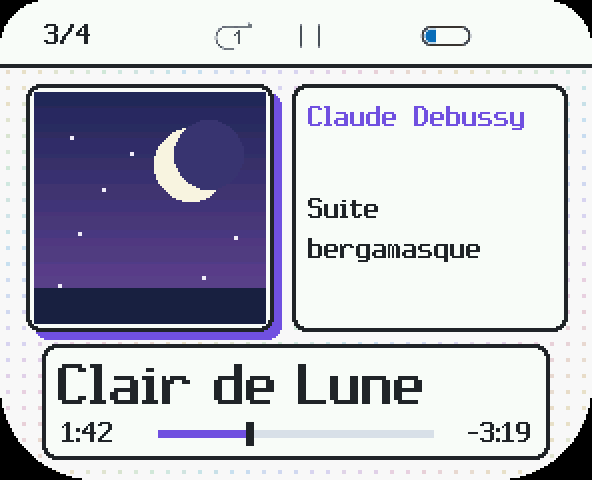
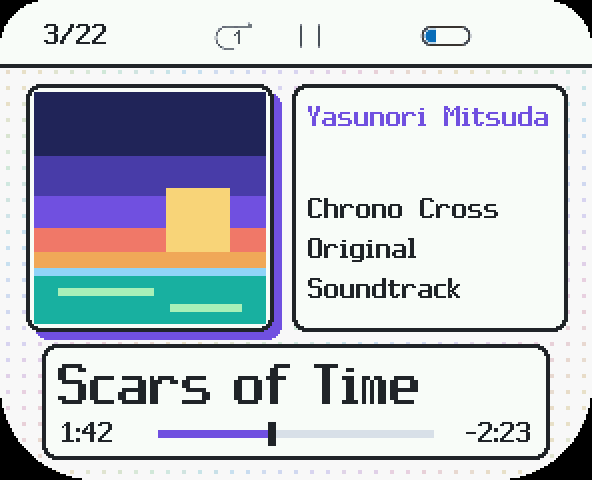
Setup guide (install and SD card layout), README links it; Now Playing screenshot with the Scars of Time sample

diff --git a/art/readme_shots.py b/art/readme_shots.py
@@ -5,8 +5,8 @@
 
 Writes docs/screenshots/{menu,now_playing,playlists,blockz}.png at 2x with the screen's rounded corners.
   menu         the Music card exactly as packed in the firmware (art/pocket.py; stock adds its status icons)
-  now_playing  game/device/npui.c run on the PC (art/np_preview.py) with a public-domain sample and an original
-               placeholder cover
+  now_playing  game/device/npui.c run on the PC (art/np_preview.py) with sample tags (owner's pick) and the
+               firmware's default cover (no real cover art)
   playlists    the Playlists screen laid out as game/device/playlists.c paint() draws it, sample playlist names
   blockz       the Blockz renderer (game/render.c) from the bot replay (python game/build.py preview)
 Sample content only: no real cover art or game footage.
@@ -32,31 +32,15 @@ def finish(im296):
     return NP.to_image(v.tobytes()).resize((592, 480), Image.NEAREST)
 
 
-def cover():
-    """original placeholder cover: night sky, moon (116 x 116, the stock cover size)"""
-    im = Image.new("RGB", (116, 116))
-    d = ImageDraw.Draw(im)
-    for y in range(116):
-        t = y / 115
-        d.line([(0, y), (115, y)], fill=(int(36 + 70 * t), int(40 + 30 * t), int(92 + 60 * t)))
-    d.ellipse((60, 18, 96, 54), fill=(250, 246, 226))
-    d.ellipse((70, 14, 104, 48), fill=(56, 52, 112))
-    for x, y in ((18, 22), (34, 48), (22, 70), (48, 30), (100, 72), (84, 92), (12, 96)):
-        d.rectangle((x, y, x + 1, y + 1), fill=(240, 236, 250))
-    d.rectangle((0, 98, 115, 115), fill=(30, 34, 70))
-    return im
-
-
 def now_playing(fdir):
     def background():
         im = pocket.now_playing().image(1).convert("RGB")
-        for n, xy in ((34, (105, 10)), (31, (143, 6)), (45, (183, 7)), (287, (209, 11))):
-            im.paste(Image.open(NP.ART / f"{n:03d}.png").convert("RGB"), xy)
-        im.paste(cover(), (17, 46))
+        for n, xy in ((34, (105, 10)), (31, (143, 6)), (45, (183, 7)), (287, (209, 11)), (277, (17, 46))):
+            im.paste(Image.open(NP.ART / f"{n:03d}.png").convert("RGB"), xy)   # 277: the default cover
         a = np.array(im).astype(np.uint16)
         return ((a[..., 0] >> 3) << 11 | (a[..., 1] >> 2) << 5 | (a[..., 2] >> 3)).astype("<u2")
     NP.background = background
-    NP.SAMPLES = [("Clair de Lune", "Claude Debussy", "Suite bergamasque", 102, 301, 3, 4)]
+    NP.SAMPLES = [("Scars of Time", "Yasunori Mitsuda", "Chrono Cross Original Soundtrack", 102, 245, 3, 22)]
     tmp = ROOT / "build/readme_np"
     sys.argv = ["np_preview.py", str(fdir), str(tmp)]
     NP.main()

diff --git a/docs/SETUP.md b/docs/SETUP.md
@@ -1,0 +1,123 @@
+# amuletOS setup guide
+
+Two parts: installing amuletOS on the AP30, then setting up the SD card so Playlists, Blockz music and Games
+find your files.
+
+## Part 1: Install
+
+### What you need
+
+- The AP30, charged (at least half; see the warning below).
+- A computer with a USB cable for the AP30.
+- The official AP30 firmware **V1.7.8** from the [Hidizs download center](https://hidizs.net/pages/download-center).
+  Unzip it if it comes as a .zip: you want the file `HIFIYF18.IMG` (about 28 MB).
+- The amuletOS patcher from the [latest release](https://github.com/dharma-dingo/amuletOS/releases/latest):
+  `amuletOS-0.3-patcher.html` (any browser) or `amuletos_patch.py` (Python 3.8+).
+
+### Steps
+
+1. **Make the amuletOS file.** Open `amuletOS-0.3-patcher.html` in your browser (double-click it; it works
+   offline). Keep "Install amuletOS 0.3" selected, choose the official `HIFIYF18.IMG`, then press
+   "Save HIFIYF18.IMG". If the page says the file isn't the official V1.7.8, download it again from Hidizs.
+   With Python instead: `python amuletos_patch.py HIFIYF18.IMG` writes `amuletOS-0.3/HIFIYF18.IMG`.
+2. **Connect the AP30.** Turn it on normally, then plug it into the computer. The player switches to its USB
+   transfer screen and the computer shows its storage. **No button combination is needed.** If the player asks
+   how to connect, pick file transfer (storage), not USB DAC. Don't press B on the transfer screen: that ends
+   the connection.
+3. **Copy the file.** The computer shows up to two drives: the AP30's **internal storage** (small, about
+   220 MB) and the SD card (if one is inserted). Copy the new `HIFIYF18.IMG` to the **top level of the internal
+   storage**, not into a folder and not onto the SD card. Keep the name exactly `HIFIYF18.IMG`.
+4. **Eject and unplug.** Eject the drive in your computer (Windows: Safely Remove; macOS: Eject), then unplug
+   the cable.
+5. **Let it install.** The player installs the update and restarts. The screen can stay dark or show an
+   updating screen for a minute or two; don't turn it off. When it's done the file is gone from the internal
+   storage and the amuletOS boot screen shows **v0.3**.
+
+Your settings carry over. If you changed the music on the card since the last start, the library rebuilds once.
+
+### If it doesn't install
+
+- **Low battery:** with a low battery the updater can swallow the file without installing anything. Charge the
+  player and copy the file again.
+- **Wrong place or name:** the file must be `HIFIYF18.IMG` at the top level of the internal storage.
+- **Older than what's installed:** the AP30 only installs a file stamped newer than its current firmware. The
+  patcher's output is always newer than the official V1.7.8. If you already ran a newer amuletOS build, install
+  that or a later release instead.
+
+### About the button combination (loader mode)
+
+Holding a d-pad corner (diagonal) with A and B while plugging in puts the AP30 into **loader mode**: a black
+screen and an unknown USB device on the computer. Installing amuletOS never needs it. It is only for recovering a
+player that no longer starts, by writing a firmware image directly with developer tools and a USB driver; see
+"Loader mode" in [HANDOFF.md](HANDOFF.md). If you got into it by accident, hold the power button about 10 seconds,
+unplug, and start the player normally.
+
+### Going back to the official firmware
+
+In the patcher choose "Go back to the official firmware" with your official `HIFIYF18.IMG` (or run
+`python amuletos_patch.py --stock HIFIYF18.IMG`), then copy the result the same way as in steps 2 to 5. This is
+needed because the AP30 won't take the official file as it is (its stamp is older than amuletOS's). Afterwards,
+going back to amuletOS needs a later amuletOS release than v0.3.
+
+## Part 2: Set up the SD card
+
+### The card
+
+- **Format: exFAT.** Playlists and Games read the card themselves and need exFAT. Cards of 64 GB and more come
+  formatted that way; a 32 GB or smaller card is usually FAT32 and needs reformatting (back it up first). Music
+  playback and Blockz music also work on FAT32.
+- The player's library covers the first 256 GB of a card.
+
+### Where things go
+
+Folder names don't care about upper or lower case.
+
+```
+SD card
+├── Artist/                     your music, organised however you like (see below)
+│   └── Album/
+│       ├── 01 - Song.flac
+│       └── cover.jpg
+├── _Playlists/                 playlists (Music → Playlists)
+│   ├── Morning Run.m3u8
+│   └── Road Trip.m3u
+├── _blockgame/                 Blockz background music
+│   └── any audio files
+└── _gb/                        Game Boy games (Games → Emu)
+    ├── Some Game.gb
+    └── Another Game.gb
+```
+
+### Music
+
+- Anywhere on the card, in any folders. Artist / Album folders with tagged files work best: Music → Artist,
+  Album and Genre come from the tags; the Library card browses folders.
+- Now Playing shows the title, artist and album tags, and the file name when a file has no title tag.
+- After adding music, the library updates on the next start. Music → **Update** rebuilds it straight away.
+
+### Playlists: `/_Playlists/`
+
+- `.m3u` or `.m3u8` files (plain or extended M3U, UTF-8). The file name is the playlist's name in the list.
+- One track per line. Paths can be relative to the playlist ("../Artist/Album/01 - Song.flac") or start at the
+  card's root ("/Artist/Album/01 - Song.flac"); `/` and `\` both work. Lines starting with `#` are ignored.
+- Up to **24 playlists** are listed, and the player keeps the **first 24 tracks** of each.
+- Open Music → Playlists and press A on one: it starts from the first track, and Next / Previous follow the
+  playlist.
+
+### Blockz music: `/_blockgame/`
+
+- If nothing is playing when you open Blockz, it shuffles the audio files in `/_blockgame/` (up to 24) until you
+  leave the game. MP3 is the safest choice.
+- If music is already playing, Blockz keeps it going instead.
+- The MUSIC box in the game shows what it's doing ("NO DIR" means the folder is missing, "EMPTY" means it holds
+  no audio files).
+
+### Game Boy games: `/_gb/` (experimental)
+
+- Original Game Boy games as `.gb` files, up to 2 MB each, up to **24** listed. They appear under Games → Emu.
+- Games made only for the Game Boy Color are shown greyed out and don't start (some colourised `.gb` hacks are
+  Color-only too).
+- Controls: the d-pad and A / B / Start / Select as on a Game Boy, the volume wheel for volume. **Hold Select**
+  for 1.5 seconds to quit.
+- No saves yet: progress is lost when you quit.
+- Use only games you own the right to play.

diff --git a/README.md b/README.md
@@ -34,6 +34,10 @@ menu, a new Now Playing screen, playlists, a block game and an experimental Game
 
 ## Install
 
+**Full walkthrough, including where to put playlists, Blockz music and games on the SD card:
+[docs/SETUP.md](docs/SETUP.md).** No special button combination is needed: the AP30 updates from a file copied
+over USB.
+
 You need the official AP30 firmware **V1.7.8** (`HIFIYF18.IMG`) from the
 [Hidizs download center](https://hidizs.net/pages/download-center). amuletOS is applied to your own copy of it,
 so no Hidizs firmware is shared here.
@@ -44,6 +48,17 @@ so no Hidizs firmware is shared here.
    **Python:** `python amuletos_patch.py HIFIYF18.IMG` writes `amuletOS-0.3/HIFIYF18.IMG`.
 3. Connect the AP30 by USB, copy the new `HIFIYF18.IMG` to its **internal storage** (not the SD card), eject it
    and unplug. The player installs the update and restarts. Charge the battery first: low battery stops updates.
+
+### SD card at a glance
+
+The card must be **exFAT** for Playlists and Games (cards of 64 GB and up usually are). Folder names ignore case.
+
+| Folder | What goes in it |
+|---|---|
+| anywhere | your music (Artist / Album folders with tags work best) |
+| `/_Playlists/` | `.m3u` / `.m3u8` playlists (up to 24, first 24 tracks of each) |
+| `/_blockgame/` | audio files Blockz shuffles when nothing else is playing |
+| `/_gb/` | original Game Boy `.gb` games (up to 24, 2 MB each) |
 
 The patcher refuses any file except the official V1.7.8, and only saves a result whose SHA-256 matches the
 amuletOS release:
